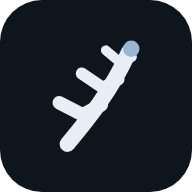
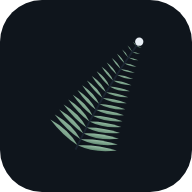
feat: 站点图标改成写实蕨叶
- 弯叶轴 + 18 对小叶（透镜形、越往叶尖越短）+ 蕨绿渐变，取代三对小叶的示意版
- 由 Python 生成器算出几何并自动缩放居中，图形落在 maskable 安全圈内
- 重渲染 favicon.png(192) / img/icon-192.png / img/icon-512.png / apple-touch-icon.png(180，不透明）
- SW 缓存版本 v14 → v15；更新日志同步

Changed region(s): [[0.25, 0.1875, 0.75, 0.8125]]

diff --git a/public/service-worker.js b/public/service-worker.js
@@ -1,4 +1,4 @@
-const CACHE_NAME = 'merisk-blog-v14';
+const CACHE_NAME = 'merisk-blog-v15';
 const APP_SHELL = [
   '/',
   '/index.html',
